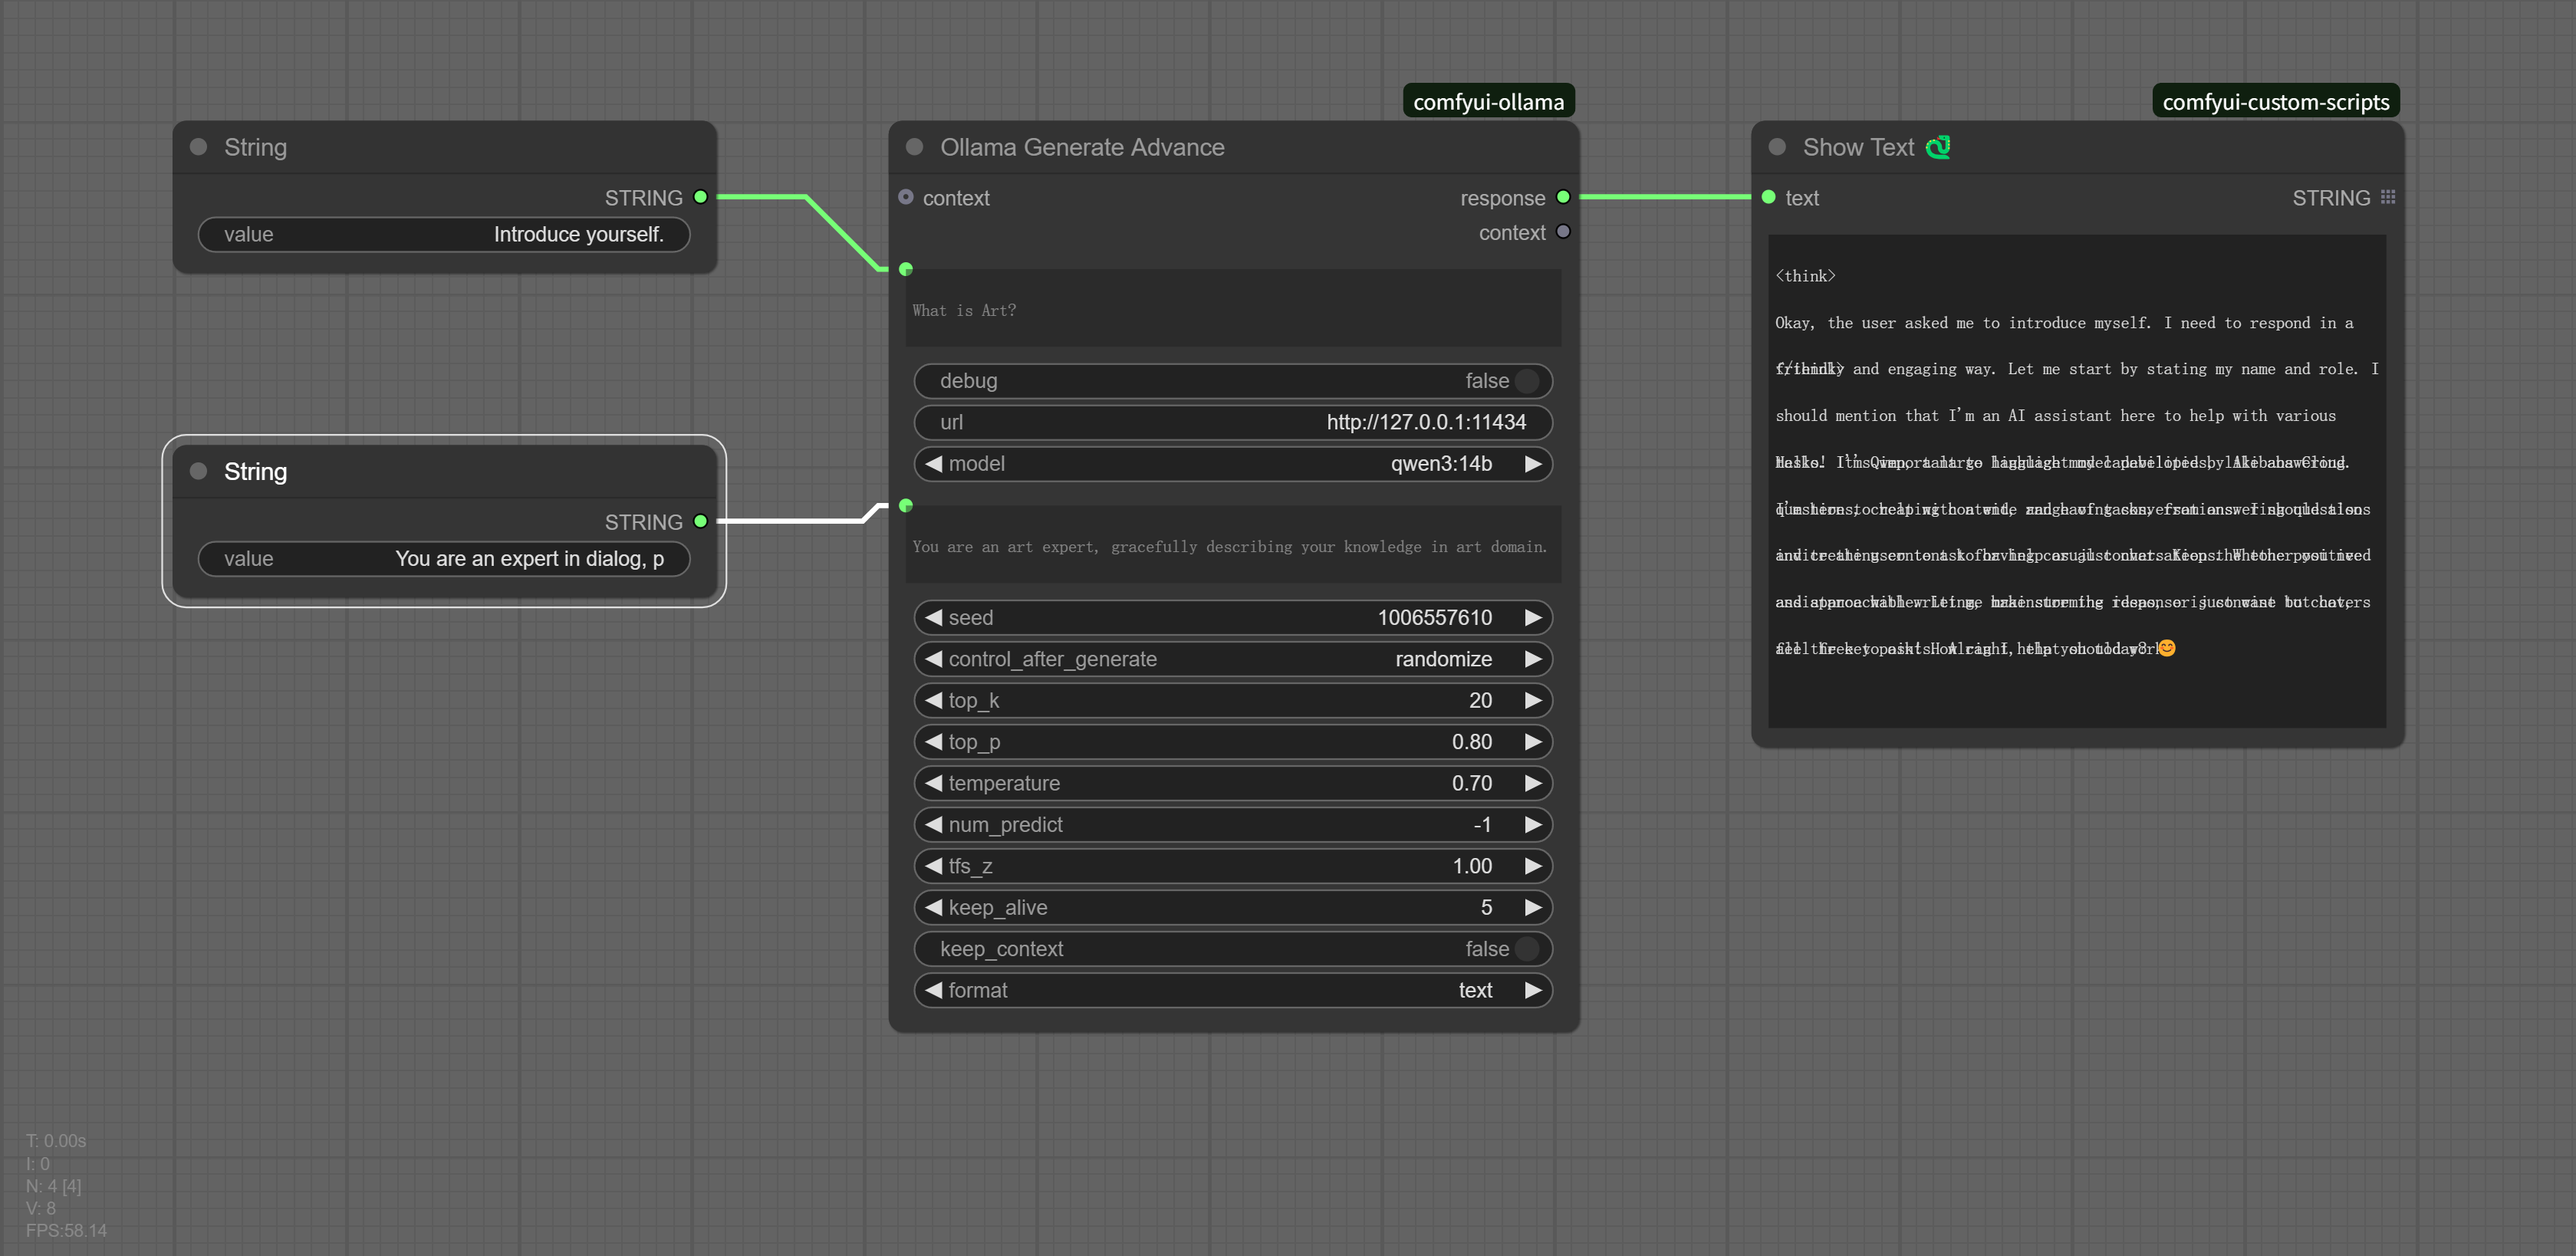
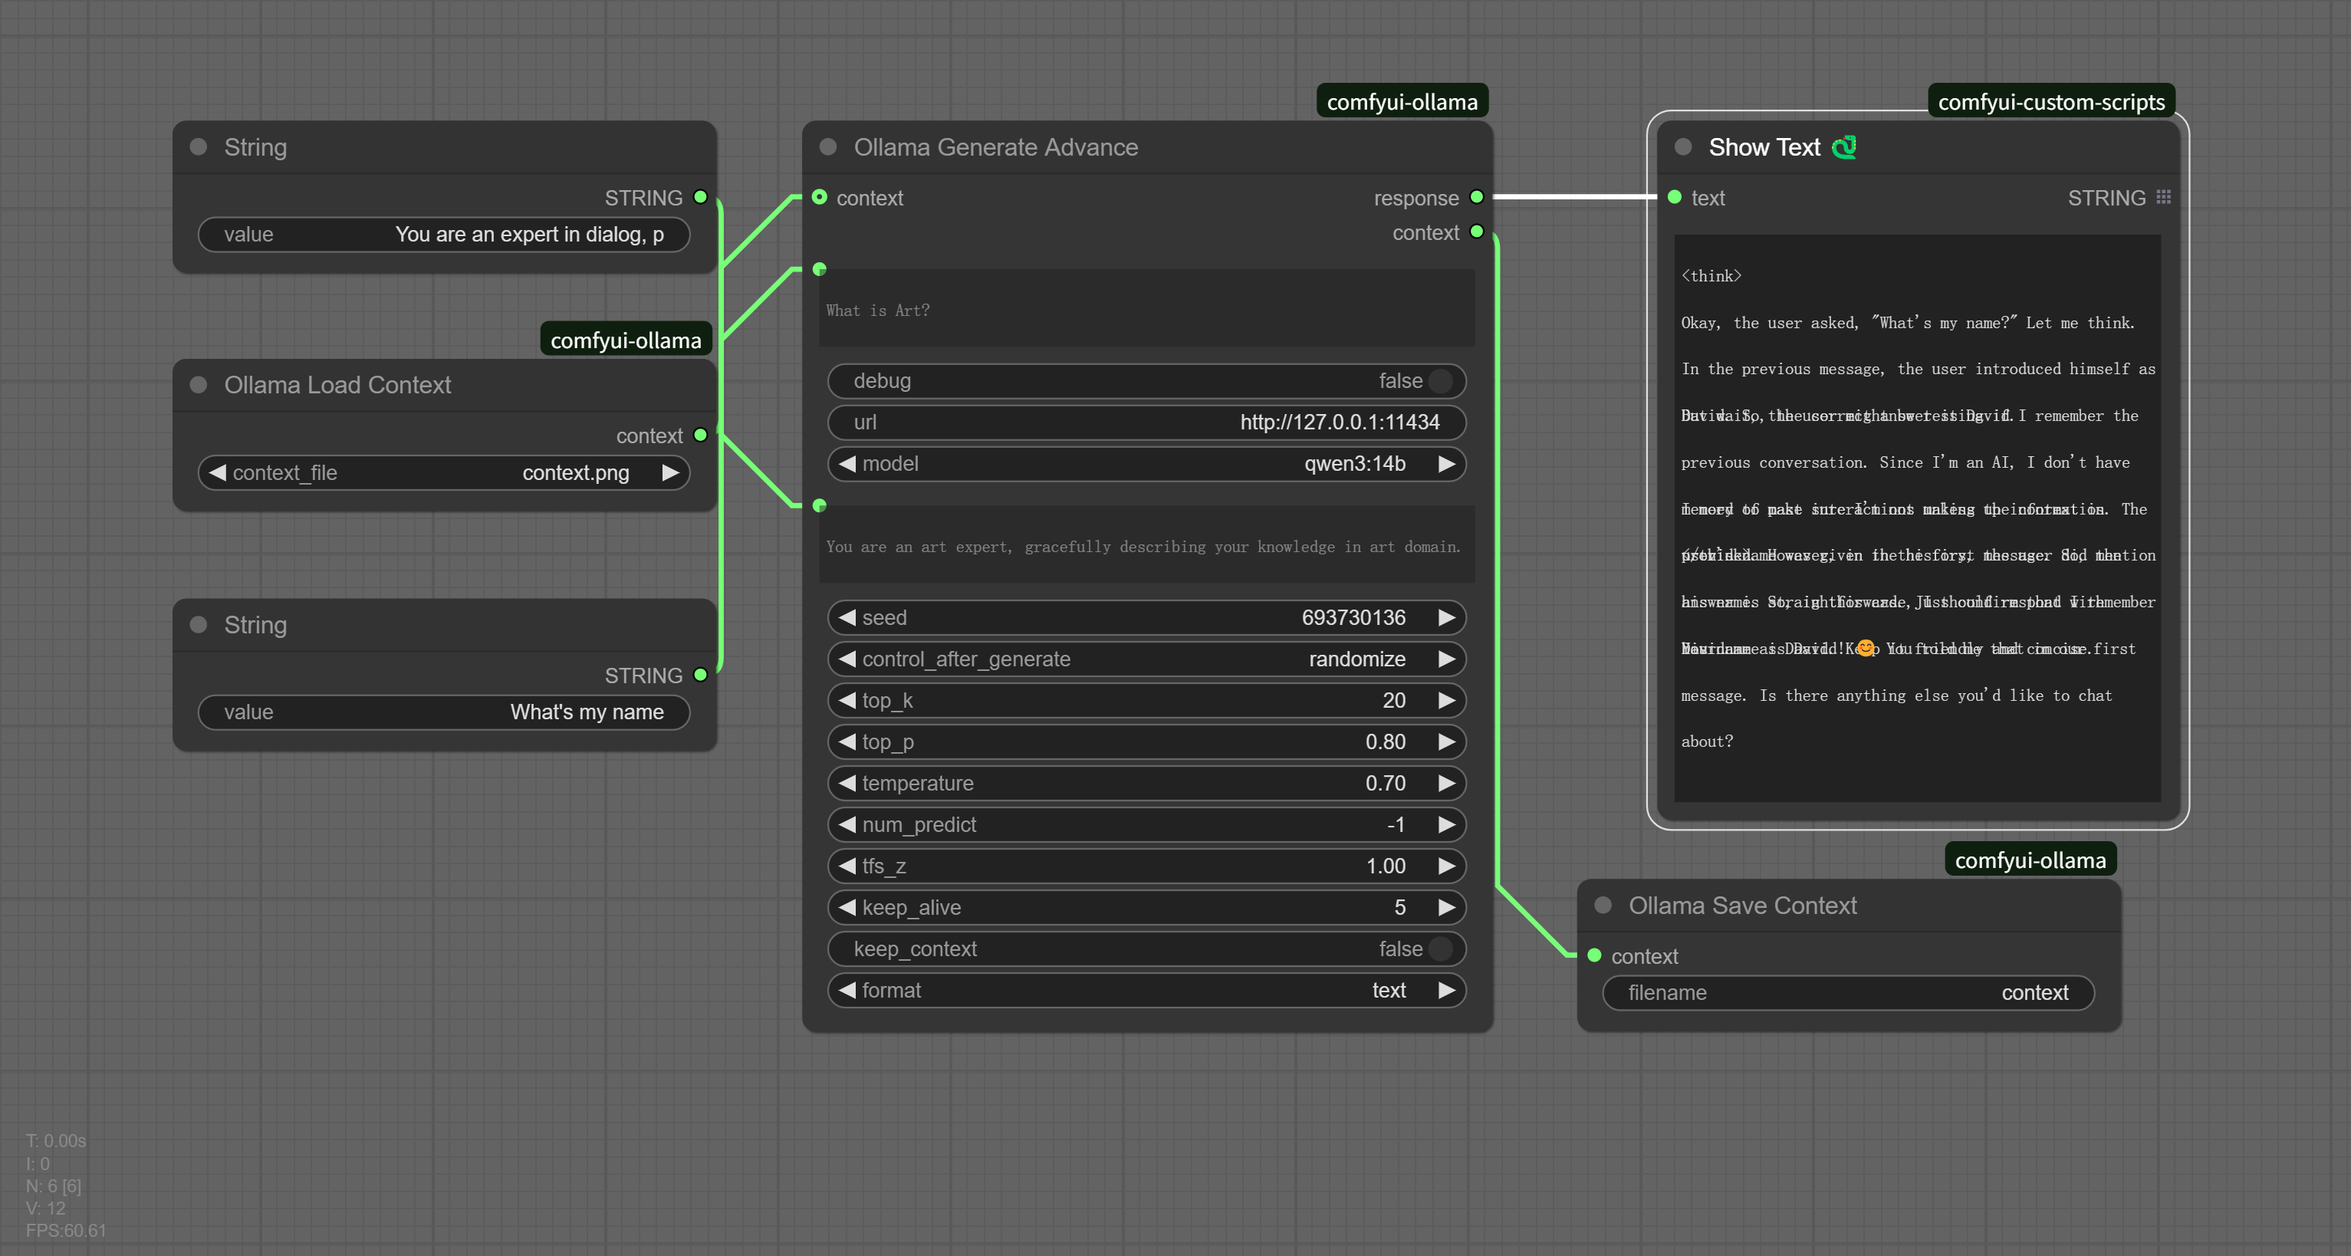
feat: Update workflow inputs and handle playerId changes in text generation

diff --git a/src/routes/text_gen.ts b/src/routes/text_gen.ts
@@ -7,6 +7,7 @@ import { sendTextResponse } from "../utils/send_text";
 
 dotenv.config();
 
+let currentPlayerId = "-1";
 const textGenRouter = Router();
 
 const upload = multer({
@@ -21,7 +22,7 @@ textGenRouter.post(
   upload,
   async (req: Request, res: Response): Promise<void> => {
     try {
-      const { userPrompt, systemPrompt } = req.body;
+      const { userPrompt, systemPrompt, playerId } = req.body;
 
       if (!userPrompt || !systemPrompt) {
         res.status(400).json({ error: "Text is required" });
@@ -33,13 +34,20 @@ textGenRouter.post(
       workflow["1"].inputs.value = userPrompt;
       workflow["3"].inputs.value = systemPrompt;
 
+      if (playerId !== currentPlayerId) {
+        delete workflow["7"];
+        delete workflow["2"].inputs.context;
+        currentPlayerId = playerId;
+        console.log("New playerId detected, removing node 7 from workflow.");
+      }
+
       const wrappedWorkflow = {
         prompt: workflow,
       };
       const promptId = await comfyuiService.executeWorkflow(wrappedWorkflow);
 
       let retries = 0;
-      const maxRetries = 100;
+      const maxRetries = 120;
       let textResult: string | null = null;
 
       while (!textResult && retries < maxRetries) {
